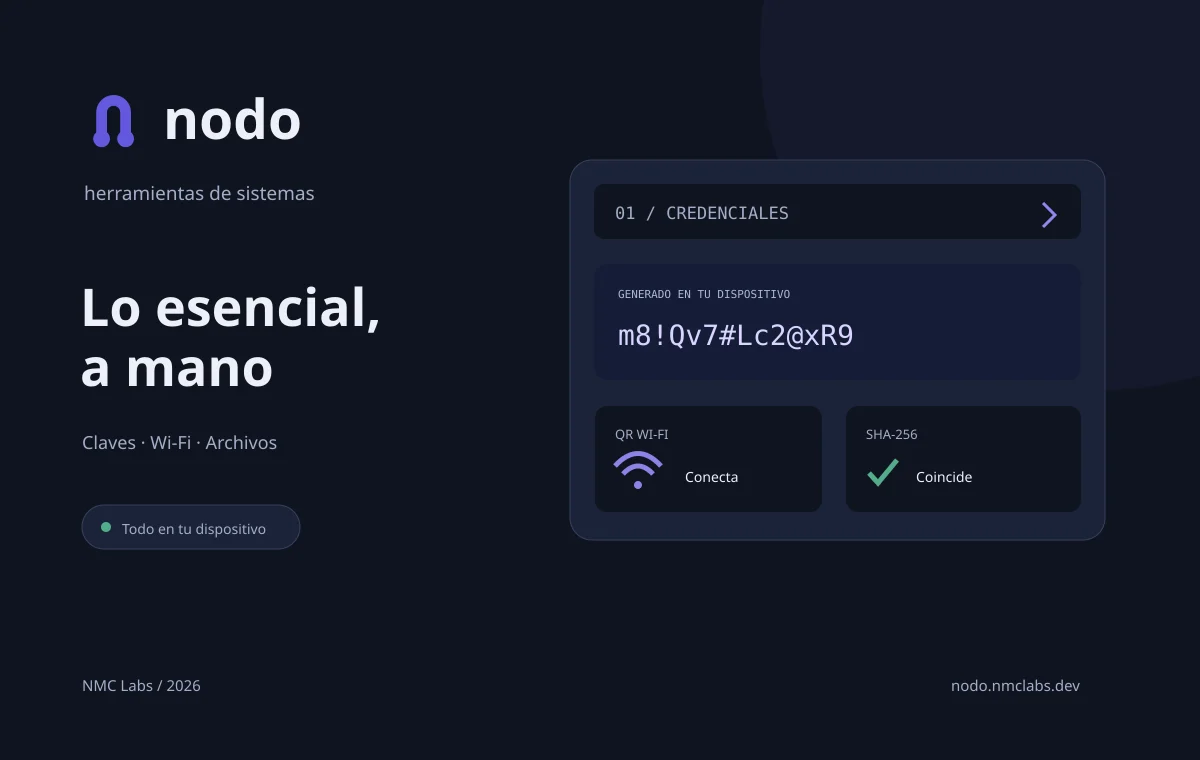
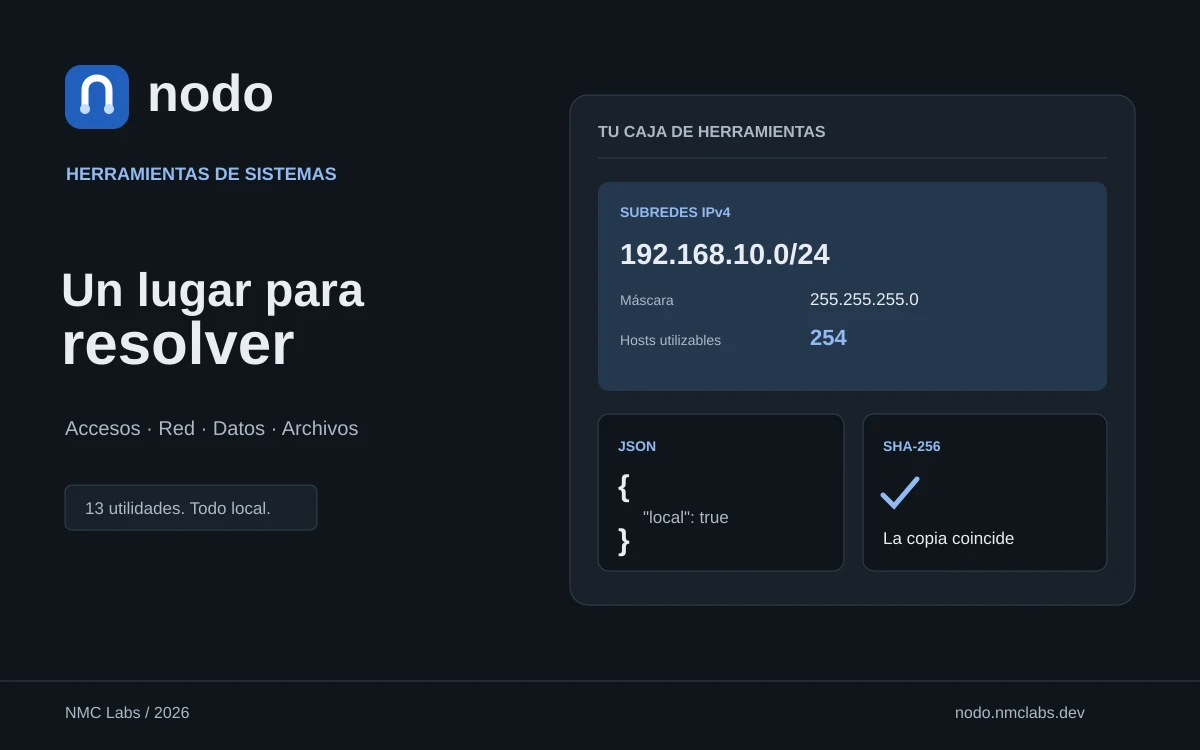
Refresh nodo showcase for the expanded systems toolbox

diff --git a/index.html b/index.html
@@ -51,7 +51,7 @@
       </article>
       <article class="featured amano-featured" aria-labelledby="amano-titulo"><div class="featured-content"><p class="eyebrow"><time datetime="2026">2026</time> · INVENTARIO DE EMPRESA</p><h3 id="amano-titulo">Cada equipo,<br>en su sitio</h3><p>amano conecta el material de una empresa con las personas, las ubicaciones y su historial. Registra equipos con foto, personaliza la identidad de tu empresa y prueba asignaciones, préstamos, devoluciones, mantenimiento y etiquetas QR.</p><ul class="tags" aria-label="Funciones de amano"><li>Inventario</li><li>Custodia y préstamos</li><li>QR y mantenimiento</li></ul><a class="button project-cta" href="https://amano.nmclabs.dev/" target="_blank" rel="noopener noreferrer">Descubrir amano <span aria-hidden="true"><svg class="icon-arrow" viewBox="0 0 24 24" fill="none"><path d="m6 18 12-12M6 6h12v12" stroke="currentColor" stroke-width="1.7" stroke-linecap="round" stroke-linejoin="round"/></svg></span></a></div><a class="amano-art brand-art" href="https://amano.nmclabs.dev/" target="_blank" rel="noopener noreferrer" aria-label="Descubrir amano en una pestaña nueva"><picture class="project-cover"><source media="(prefers-color-scheme: dark)" srcset="proyectos/amano-brand-dark.webp?v=themes1"><img src="proyectos/amano-brand-light.webp?v=themes1" width="1200" height="750" alt="amano: equipo identificado, portátil y persona responsable" loading="lazy"></picture></a><details class="project-origin"><summary><span>La idea detrás del proyecto</span><span class="origin-toggle" aria-hidden="true">+</span></summary><div class="origin-content" aria-label="La idea de amano"><div><span class="origin-label">LA IDEA</span><p>Saber qué material tiene una empresa, dónde está y quién lo utiliza sin depender de varias hojas y mensajes.</p></div><div><span class="origin-label">EL RETO</span><p>Conectar cada equipo con su persona responsable, las entregas, las devoluciones y los cuidados pendientes.</p></div><div><span class="origin-label">LA DECISIÓN</span><p>Dar identidad propia a cada unidad y permitir probar el recorrido completo, desde el alta hasta una etiqueta QR.</p></div></div></details></article>
       <article class="featured apunto-featured" aria-labelledby="apunto-titulo"><div class="featured-content"><p class="eyebrow"><time datetime="2026">2026</time> · GESTIÓN DE TALLERES</p><h3 id="apunto-titulo">Cada reparación,<br>bajo control</h3><p>apunto conecta citas, recepción y reparación para talleres de coches y motos. El cliente revisa el presupuesto original y sus adicionales; el negocio planifica profesionales y elevadores, gestiona piezas y conserva el historial. Incluye cobro presencial, resguardo y recordatorios de mantenimiento en una demo local.</p><ul class="tags" aria-label="Funciones de apunto"><li>Presupuestos y adicionales</li><li>Clientes y planificación</li><li>Historial y mantenimiento</li></ul><a class="button project-cta" href="https://apunto.nmclabs.dev/" target="_blank" rel="noopener noreferrer">Descubrir apunto <span aria-hidden="true"><svg class="icon-arrow" viewBox="0 0 24 24" fill="none"><path d="m6 18 12-12M6 6h12v12" stroke="currentColor" stroke-width="1.7" stroke-linecap="round" stroke-linejoin="round"/></svg></span></a></div><a class="apunto-art brand-art" href="https://apunto.nmclabs.dev/" target="_blank" rel="noopener noreferrer" aria-label="Descubrir apunto en una pestaña nueva"><picture class="project-cover"><source media="(prefers-color-scheme: dark)" srcset="proyectos/apunto-brand-dark.webp?v=20261121"><img src="proyectos/apunto-brand-light.webp?v=20261121" width="1200" height="750" alt="apunto: marca, vehículo y orden de trabajo" loading="lazy"></picture></a><details class="project-origin"><summary><span>La idea detrás del proyecto</span><span class="origin-toggle" aria-hidden="true">+</span></summary><div class="origin-content" aria-label="La idea de apunto"><div><span class="origin-label">LA IDEA</span><p>Una reparación necesita coordinar el trabajo del taller y mantener informado al cliente.</p></div><div><span class="origin-label">EL RETO</span><p>Conectar diagnóstico, presupuesto y piezas sin perder el estado ni la decisión del cliente.</p></div><div><span class="origin-label">LA DECISIÓN</span><p>Una orden de principio a fin, con acceso del cliente y versiones del presupuesto que conservan su historial.</p></div></div></details></article>
-<article class="featured nodo-featured" aria-labelledby="nodo-titulo"><div class="featured-content"><p class="eyebrow"><time datetime="2026">2026</time> · HERRAMIENTAS DE SISTEMAS</p><h3 id="nodo-titulo">Lo esencial,<br>a mano</h3><p>nodo reúne pequeñas tareas de sistemas: generar contraseñas y frases de paso, compartir una red Wi-Fi con un QR y comprobar archivos o copias con SHA-256 y SHA-512. Todo se procesa en el dispositivo, sin enviar las claves ni los archivos.</p><ul class="tags" aria-label="Funciones de nodo"><li>Credenciales</li><li>QR Wi-Fi</li><li>Verificación de archivos</li></ul><a class="button project-cta" href="https://nodo.nmclabs.dev/" target="_blank" rel="noopener noreferrer">Descubrir nodo</a></div><a class="nodo-art brand-art" href="https://nodo.nmclabs.dev/" target="_blank" rel="noopener noreferrer" aria-label="Descubrir nodo en una pestaña nueva"><picture class="project-cover"><source media="(prefers-color-scheme: dark)" srcset="proyectos/nodo-brand-dark.webp?v=20261122"><img src="proyectos/nodo-brand-light.webp?v=20261122" width="1200" height="760" alt="nodo: contraseñas, QR Wi-Fi y comprobación de archivos" loading="lazy"></picture></a><details class="project-origin"><summary><span>La idea detrás del proyecto</span><span class="origin-toggle" aria-hidden="true">+</span></summary><div class="origin-content" aria-label="La idea de nodo"><div><span class="origin-label">LA IDEA</span><p>Resolver esas pequeñas tareas de sistemas que se repiten cada día, desde un solo lugar.</p></div><div><span class="origin-label">EL RETO</span><p>Generar accesos, conectar invitados y comprobar una copia sin enviar información privada a un servicio.</p></div><div><span class="origin-label">LA DECISIÓN</span><p>Tres áreas sencillas con procesamiento local y sin guardar las claves ni los archivos entre visitas.</p></div></div></details></article>
+<article class="featured nodo-featured" aria-labelledby="nodo-titulo"><div class="featured-content"><p class="eyebrow"><time datetime="2026">2026</time> · HERRAMIENTAS DE SISTEMAS</p><h3 id="nodo-titulo">Un lugar para<br>resolver</h3><p>13 herramientas de sistemas para el día a día: accesos, subredes IPv4, QR, JSON, Base64, fechas y comprobación de archivos. Un catálogo con buscador y cuatro áreas, con todos los cálculos en el dispositivo y sin enviar los datos introducidos.</p><ul class="tags" aria-label="Funciones de nodo"><li>13 herramientas</li><li>Redes y datos</li><li>Procesamiento local</li></ul><a class="button project-cta" href="https://nodo.nmclabs.dev/" target="_blank" rel="noopener noreferrer">Descubrir nodo</a></div><a class="nodo-art brand-art" href="https://nodo.nmclabs.dev/" target="_blank" rel="noopener noreferrer" aria-label="Descubrir nodo en una pestaña nueva"><picture class="project-cover"><source media="(prefers-color-scheme: dark)" srcset="proyectos/nodo-brand-dark.webp?v=20261122-v2"><img src="proyectos/nodo-brand-light.webp?v=20261122-v2" width="1200" height="750" alt="nodo: contraseñas, QR Wi-Fi y comprobación de archivos" loading="lazy"></picture></a><details class="project-origin"><summary><span>La idea detrás del proyecto</span><span class="origin-toggle" aria-hidden="true">+</span></summary><div class="origin-content" aria-label="La idea de nodo"><div><span class="origin-label">LA IDEA</span><p>Resolver esas pequeñas tareas de sistemas que se repiten cada día, desde un solo lugar.</p></div><div><span class="origin-label">EL RETO</span><p>Generar accesos, conectar invitados y comprobar una copia sin enviar información privada a un servicio.</p></div><div><span class="origin-label">LA DECISIÓN</span><p>Un catálogo con buscador, cuatro áreas de trabajo y procesamiento local, sin guardar los datos entre visitas.</p></div></div></details></article>
       <article class="featured estancia-featured" aria-labelledby="estancia-titulo"><div class="featured-content"><p class="eyebrow"><time datetime="2026">2026</time> · HOTELES Y ALOJAMIENTOS</p><h3 id="estancia-titulo">Cada estancia,<br>bien cuidada</h3><p>estancia conecta reservas, habitaciones y tarifas de temporada para hoteles, apartamentos y casas rurales. Gestiona categorías y fotos, prueba el check-in del huésped y atiende sus incidencias. Incluye informes, web del alojamiento y una guía para preparar conexiones con Airbnb o Booking.</p><ul class="tags" aria-label="Funciones de estancia"><li>Reservas</li><li>Tipos y cupos</li><li>Tarifas e informes</li></ul><a class="button project-cta" href="https://estancia.nmclabs.dev/" target="_blank" rel="noopener noreferrer">Descubrir estancia <span aria-hidden="true"><svg class="icon-arrow" viewBox="0 0 24 24" fill="none"><path d="m6 18 12-12M6 6h12v12" stroke="currentColor" stroke-width="1.7" stroke-linecap="round" stroke-linejoin="round"/></svg></span></a></div><a class="estancia-art brand-art" href="https://estancia.nmclabs.dev/" target="_blank" rel="noopener noreferrer" aria-label="Descubrir estancia en una pestaña nueva"><picture class="project-cover"><source media="(prefers-color-scheme: dark)" srcset="proyectos/estancia-brand-dark.webp?v=themes1"><img src="proyectos/estancia-brand-light.webp?v=themes1" width="1200" height="750" alt="estancia: marca, alojamiento y calendario de reservas" loading="lazy"></picture></a><details class="project-origin"><summary><span>La idea detrás del proyecto</span><span class="origin-toggle" aria-hidden="true">+</span></summary><div class="origin-content" aria-label="La idea de estancia"><div><span class="origin-label">LA IDEA</span><p>Organizar reservas y preparar cada llegada sin perder la cercanía con los huéspedes.</p></div><div><span class="origin-label">EL RETO</span><p>Conectar la disponibilidad de cada unidad, las tareas y la experiencia de quien reserva.</p></div><div><span class="origin-label">LA DECISIÓN</span><p>Una gestión para el negocio y una web con su propia identidad, con ejemplos de hotel, apartamentos y finca rural.</p></div></div></details></article>
       <article class="featured atlas-featured" aria-labelledby="atlas-titulo">
         <div class="featured-content"><p class="eyebrow"><time datetime="2026">2026</time> · PATRIMONIO PERSONAL</p><h3 id="atlas-titulo">Un lugar para ver<br>tu patrimonio</h3><p>atlas reúne cuentas, inversiones y activos en una visión clara. Un registro mensual para entender tu evolución, a tu ritmo.</p><ul class="tags" aria-label="Funciones de Atlas"><li>Patrimonio</li><li>Evolución</li><li>Informes</li></ul><a class="button project-cta" href="https://atlas.nmclabs.dev/" target="_blank" rel="noopener noreferrer">Descubrir atlas <span aria-hidden="true"><svg class="icon-arrow" viewBox="0 0 24 24" fill="none" aria-hidden="true"><path d="m6 18 12-12M6 6h12v12" stroke="currentColor" stroke-width="1.7" stroke-linecap="round" stroke-linejoin="round"/></svg></span><span class="sr-only"> (se abre en una pestaña nueva)</span></a></div>

diff --git a/ASSET-PROVENANCE.md b/ASSET-PROVENANCE.md
@@ -9,3 +9,5 @@
 
 - nodo: identidad y composición originales de NMC Labs, reutilizadas del producto publicado; variantes clara y oscura.
 - `proyectos/readme/`: copias de las imágenes ya usadas en los README de los proyectos. El manifiesto `docs/readme-images.json` identifica su origen y huella. Solo se publican las imágenes de presentación, sin código de los repositorios privados.
+
+- nodo v2: composición original en grafito y azul con calculadora de subredes, JSON y huellas de archivos; `nmclabs-nodo/scripts/brand.mjs` permite regenerar las variantes y el favicon.
